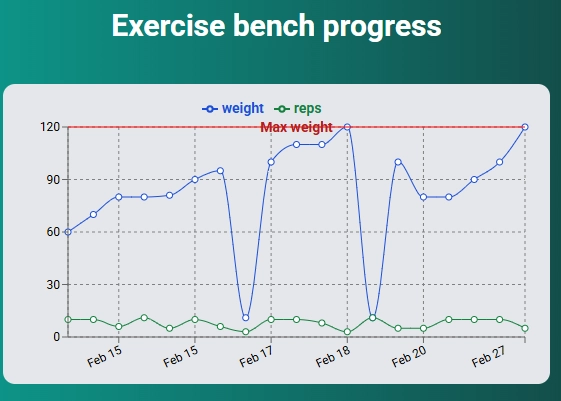
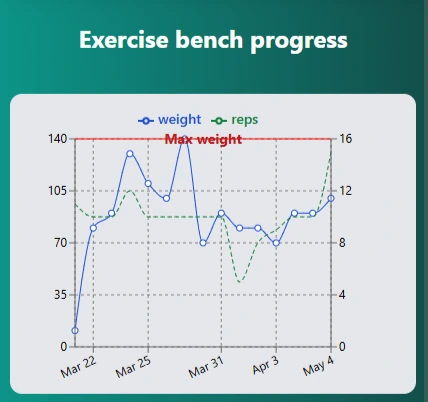
Change exerciseProgress chart to look better and change images to the new one on home page.

diff --git a/src/components/ChartByExercise.js b/src/components/ChartByExercise.js
@@ -85,8 +85,22 @@ const ChartByExercise = () => {
       <ResponsiveContainer width="100%" className="bg-gray-200 dark:bg-gray-700 py-3 pr-5 md:pr-10 md:py-5 rounded-xl min-h-[300px] md:min-h-[400px] xl:min-h-[500px]">
         <LineChart width={600} height={300} data={exerciseData}>
           <CartesianGrid  strokeDasharray="3 3" stroke={gridStrokeColor}/>
-          <Line type="monotone" dataKey="weight" stroke={darkMode ? '#60a5fa' : '#1d4ed8'} animationDuration={1000}/>
-          <Line domain={[0, maxReps]} type="monotone" dataKey="reps" stroke={darkMode ? '#34d399' : '#15803d'} animationDuration={1000} yAxisId="right"/>
+          <Line
+            type="monotone"
+            dataKey="weight"
+            stroke={darkMode ? '#60a5fa' : '#1d4ed8'}
+            animationDuration={1000}
+          />
+          <Line
+            domain={[0, maxReps]}
+            type="monotone"
+            dataKey="reps"
+            stroke={darkMode ? '#34d399' : '#15803d'}
+            strokeDasharray="4 3"
+            dot= {false}
+            animationDuration={1000}
+            yAxisId="right"
+          />
           <XAxis dataKey="date" tickFormatter={(tick) => new Date(tick).toLocaleDateString('en-US', { month: 'short', day: 'numeric' })}
           angle={-25} textAnchor="end" tick={{ fill: darkMode ? 'white' : 'black' }}/>
           <YAxis dataKey="weight" tick={{ fill: darkMode ? 'white' : 'black' }}/>

diff --git a/src/components/Home.js b/src/components/Home.js
@@ -42,7 +42,7 @@ function Home() {
       { src: "/images/workoutExercisesDesktop.webp", alt: "Weekly workout planner for tracking exercises", description: "Plan weekly workouts" },
       { src: "/images/workoutMuscleGroupsDesktop.webp", alt: "Track weekly workouts by targeted muscle groups", description: "Target muscle groups weekly" },
       { src: "/images/addNoteDesktop.webp", alt: "Add custom workout notes for better tracking", description: "Add workout notes" },
-      { src: "/images/exerciseProgress.webp", alt: "Exercise progress tracker with performance history", description: "Track exercise progress" },
+      { src: "/images/exerciseProgressDesktop.webp", alt: "Exercise progress tracker with performance history", description: "Track exercise progress" },
       { src: "/images/muscleGroupPrDesktop.webp", alt: "View personal records (PRs) by muscle groups over time", description: "See PRs by muscle group in a time range" },
       { src: "/images/nutritionTrackerDesktop.webp", alt: "Nutrition tracker for tracking macros and goals", description: "Track nutrition to help monitor macros for a balanced diet." },
       { src: "/images/darkMode.webp", alt: "Enable dark mode for better workout tracking experience", description: "Switch to Dark Mode" },
